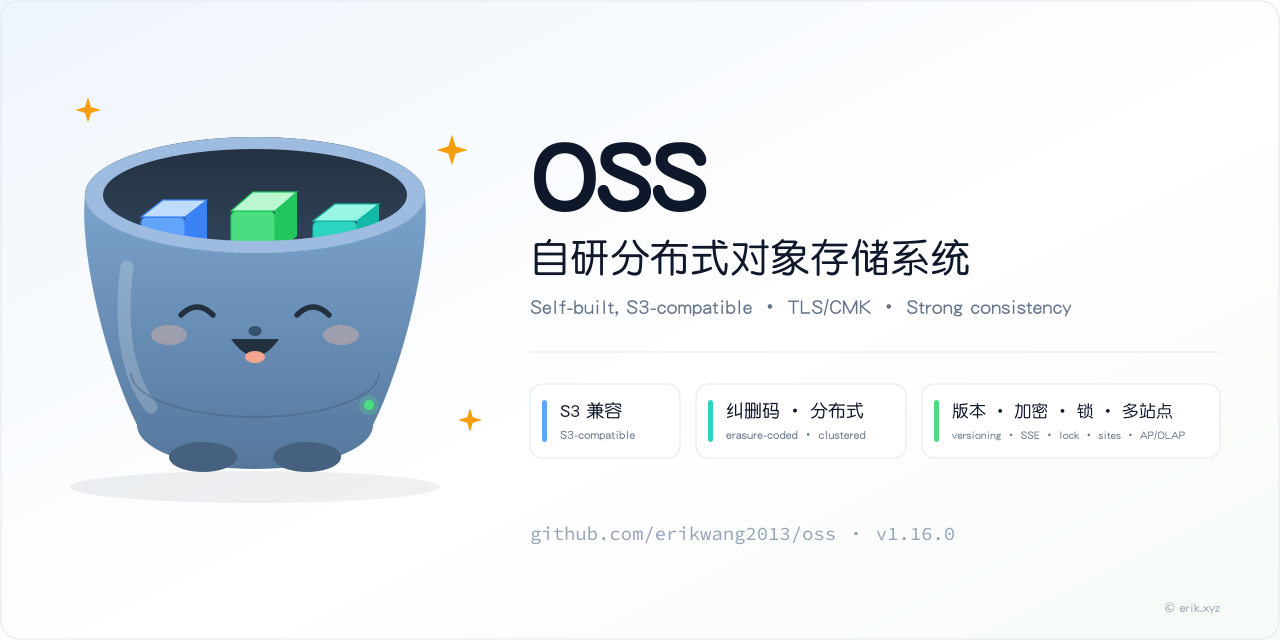
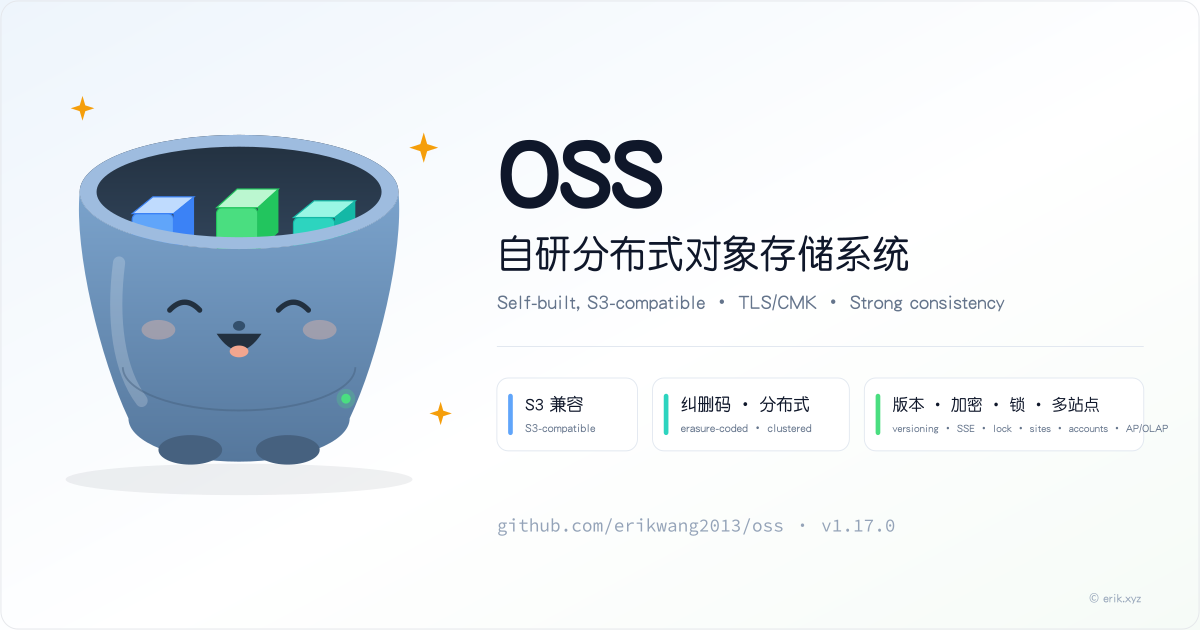
release: v1.17.0 文档、图片、站点与版本号

diff --git a/site/index.html b/site/index.html
@@ -36,7 +36,7 @@
         "alternateName": "oss",
         "applicationCategory": "DeveloperApplication",
         "operatingSystem": "Linux, macOS, Docker",
-        "softwareVersion": "1.16.0",
+        "softwareVersion": "1.17.0",
         "license": "https://www.apache.org/licenses/LICENSE-2.0",
         "codeRepository": "https://github.com/erikwang2013/oss",
         "downloadUrl": "https://github.com/erikwang2013/oss/releases",
@@ -90,7 +90,7 @@
         <a href="usage.html">使用</a>
         <a href="api.html">API 文档</a>
         <a href="https://github.com/erikwang2013/oss" target="_blank" rel="noopener">GitHub</a>
-        <a href="https://github.com/erikwang2013/oss/releases" target="_blank" rel="noopener">下载 v1.16.0</a>
+        <a href="https://github.com/erikwang2013/oss/releases" target="_blank" rel="noopener">下载 v1.17.0</a>
       </nav>
     </header>
     <div id="top-sentinel" aria-hidden="true"></div>
@@ -130,7 +130,7 @@
           <div><strong>5 个 crate</strong><span>oss-server · xl-s3 · xl-store · xl-client · xl-proto</span></div>
           <div><strong>EC 8+4</strong><span>多盘分片、quorum 写与读时修复</span></div>
           <div><strong>3 voters</strong><span>A/B 数据站点 + C control witness</span></div>
-          <div><strong>backlog 第二轮</strong><span>2026-10-24 · v1.16.0 已发布</span></div>
+          <div><strong>架构切片</strong><span>2026-10-24 · v1.17.0 已发布</span></div>
         </div>
       </div>
 
@@ -140,7 +140,7 @@
             <h2>项目介绍</h2>
             <p class="intro-lede">吞吞（oss）是一块自己养大的对象存储：Rust 2024 编写，S3 兼容，从单盘一直长到跨站点强一致。</p>
             <p>它不是只把文件存进去的薄壳，而是把存储内核、纠删码、集群 mesh、多站点复制、控制面和安全能力放在同一套代码里。你可以只跑一个进程做本地备份，也可以配置 3 个 voter 和 witness，让控制面在站点故障时继续工作。</p>
-            <p>项目从单盘切片开始，依次完成可用性、分布式、运维与 IAM、安全、数据流、多站点、控制面，走到 sync 桶与 Raft 强一致。2026-10-23 的能力边界清零补齐了 S3 协议细节、全链路 TLS、控制面作业/清单/分层/访问点与滚动升级；2026-10-24 的 v1.15.0 完成 AP/账户、TLS/CMK、tier 流式与多站点复制等硬化收口，v1.16.0 又补上 WebIdentity、MPU 跨节点、OSSCTL2、Batch 抢占与 M8 leader 门控等 backlog。每个阶段都有可运行的 e2e、验收记录和对应文档。</p>
+            <p>项目从单盘切片开始，依次完成可用性、分布式、运维与 IAM、安全、数据流、多站点、控制面，走到 sync 桶与 Raft 强一致。2026-10-23 的能力边界清零补齐了 S3 协议细节、全链路 TLS、控制面作业/清单/分层/访问点与滚动升级；2026-10-24 的 v1.15.0 完成 AP/账户、TLS/CMK、tier 流式与多站点复制等硬化收口，v1.16.0 又补上 WebIdentity、MPU 跨节点、OSSCTL2、Batch 抢占与 M8 leader 门控等 backlog，v1.17.0 继续推进账户 MVP、DP-0 数据面握手、M7 对账与 M8 运行态 fencing。每个阶段都有可运行的 e2e、验收记录和对应文档。</p>
             <p>它适合想理解对象存储内部实现的人，也适合需要一套可自托管、可审计、能继续改的 S3 兼容服务的团队。代码是开放的，边界也写清楚了：能做什么，不能做什么，都在 README 和版本日志里。</p>
           </div>
           <aside class="project-facts" data-reveal aria-label="项目档案">
@@ -152,8 +152,8 @@
               <div><dt>对外协议</dt><dd>S3 compatible</dd></div>
               <div><dt>实现语言</dt><dd>Rust 2024</dd></div>
               <div><dt>许可证</dt><dd>Apache-2.0</dd></div>
-              <div><dt>当前版本</dt><dd>v1.16.0（最新发布）</dd></div>
-              <div><dt>最新发布</dt><dd>backlog 第二轮（2026-10-24）</dd></div>
+              <div><dt>当前版本</dt><dd>v1.17.0（最新发布）</dd></div>
+              <div><dt>最新发布</dt><dd>架构切片（2026-10-24）</dd></div>
               <div><dt>部署形态</dt><dd>单盘 / 多盘 EC / 多站点 / 3-voter Raft · 全链路 TLS</dd></div>
               <div><dt>源码</dt><dd><a href="https://github.com/erikwang2013/oss" target="_blank" rel="noopener">github.com/erikwang2013/oss</a></dd></div>
             </dl>
@@ -217,7 +217,7 @@ aws s3 cp ./backup.tar s3://backup/</code></pre>
             </article>
             <article class="bento-card span-8" data-reveal>
               <h3>v1.16 backlog 第二轮</h3>
-              <p>2026-10-24 完成并随 v1.16.0 发布：STS WebIdentity、Select BZIP2、CMK 删除/rewrap、MPU 跨节点路由、OSSCTL2 快照、M6 token 远端、TLS mesh/Kafka 热加载、Batch 抢占/跨账户清单、M8 leader 门控与 tier 清扫/预留。</p>
+              <p>2026-10-24 完成并随 v1.17.0 发布：多租户账户 MVP、AP 跨账户/SourceVpce、DP-0 数据面版本握手、M7 未映射 REPLICA 对账、M8 运行态 fencing、CMK 离线运维、WebIdentity 加固、tier 分块哈希/直读与 Batch 运行态修复。</p>
               <div class="chip-row"><span>WebIdentity</span><span>BZIP2</span><span>MPU</span><span>OSSCTL2</span><span>Batch</span></div>
             </article>
             <article class="bento-card tint span-4" data-reveal>
@@ -401,6 +401,11 @@ aws --endpoint-url http://127.0.0.1:9000 s3 rm s3://backup/data.tar</code></pre>
           <div class="release-list">
             <article class="release-row" data-reveal>
               <time datetime="2026-10-24">2026-10-24</time>
+              <div><strong>v1.17.0</strong><p>架构切片：账户 MVP、AP 跨账户、DP-0 数据面握手、M7 对账、M8 运行态 fencing、CMK 运维与 WebIdentity 加固。</p></div>
+              <a href="changelog.html#v1-17-0">查看</a>
+            </article>
+            <article class="release-row" data-reveal>
+              <time datetime="2026-10-24">2026-10-24</time>
               <div><strong>v1.16.0</strong><p>backlog 第二轮：WebIdentity、BZIP2、CMK 删除/rewrap、MPU 跨节点、OSSCTL2、Batch 抢占/跨账户、M8 leader 门控。</p></div>
               <a href="changelog.html#v1-16-0">查看</a>
             </article>
@@ -463,12 +468,12 @@ aws --endpoint-url http://127.0.0.1:9000 s3 rm s3://backup/data.tar</code></pre>
         <div class="wrap">
           <div class="download-band" data-reveal>
             <div>
-              <h2>下载 v1.16.0</h2>
+              <h2>下载 v1.17.0</h2>
               <p>Release 提供源码归档。当前没有预编译二进制，推荐用 Docker Compose 或按安装文档从源码构建。</p>
             </div>
             <div class="download-actions">
-              <a class="btn btn-primary btn-lg" href="https://github.com/erikwang2013/oss/releases/tag/v1.16.0" target="_blank" rel="noopener">打开 Release</a>
-              <a class="btn btn-ghost btn-lg" href="https://github.com/erikwang2013/oss/archive/refs/tags/v1.16.0.tar.gz" target="_blank" rel="noopener">源码包</a>
+              <a class="btn btn-primary btn-lg" href="https://github.com/erikwang2013/oss/releases/tag/v1.17.0" target="_blank" rel="noopener">打开 Release</a>
+              <a class="btn btn-ghost btn-lg" href="https://github.com/erikwang2013/oss/archive/refs/tags/v1.17.0.tar.gz" target="_blank" rel="noopener">源码包</a>
               <a class="btn btn-ghost btn-lg" href="install.html">安装文档</a>
             </div>
           </div>
@@ -510,7 +515,7 @@ aws --endpoint-url http://127.0.0.1:9000 s3 rm s3://backup/data.tar</code></pre>
         <div class="footer-brand">
           <img src="assets/img/pet/smile.svg" data-static="assets/img/pet/static/smile.png" width="360" height="400" alt="" decoding="async">
           <p>吞吞（oss）：Rust 编写的 S3 兼容分布式对象存储。把对象吞进桶里，也把一致性守住。</p>
-          <p class="footer-meta">Apache-2.0 · Rust 2024 · v1.16.0</p>
+          <p class="footer-meta">Apache-2.0 · Rust 2024 · v1.17.0</p>
         </div>
         <div class="footer-links">
           <h2>文档</h2>

diff --git a/site/changelog.html b/site/changelog.html
@@ -9,7 +9,7 @@
     <meta property="og:locale" content="zh_CN">
     <meta name="color-scheme" content="light dark">
     <title>版本日志 | oss（吞吞）</title>
-    <meta name="description" content="oss（吞吞）版本日志：从 v1.0.0 到 v1.16.0，包含各阶段的功能迭代、修复与验收记录。">
+    <meta name="description" content="oss（吞吞）版本日志：从 v1.0.0 到 v1.17.0，包含各阶段的功能迭代、修复与验收记录。">
     <meta name="keywords" content="oss 版本日志,吞吞 release,S3 对象存储更新,Rust 对象存储,TLS,滚动升级">
     <link rel="canonical" href="https://oss.erik.xyz/changelog.html">
     <link rel="icon" href="assets/img/favicon.svg" type="image/svg+xml">
@@ -18,12 +18,12 @@
     <meta property="og:type" content="article">
     <meta property="og:site_name" content="oss（吞吞）">
     <meta property="og:title" content="版本日志 | oss（吞吞）">
-    <meta property="og:description" content="从单盘到 3-voter 强一致，再到 backlog 第二轮；oss 的完整版本历史与 v1.16.0 变更。">
+    <meta property="og:description" content="从单盘到 3-voter 强一致，再到 v1.17.0 架构切片；oss 的完整版本历史与最新变更。">
     <meta property="og:url" content="https://oss.erik.xyz/changelog.html">
     <meta property="og:image" content="https://oss.erik.xyz/assets/img/social-preview.png">
     <meta name="twitter:card" content="summary_large_image">
     <meta name="twitter:title" content="版本日志 | oss（吞吞）">
-    <meta name="twitter:description" content="从单盘到 3-voter 强一致，再到 v1.16.0 backlog 第二轮；oss 的完整版本历史。">
+    <meta name="twitter:description" content="从单盘到 3-voter 强一致，再到 v1.17.0 架构切片；oss 的完整版本历史。">
     <meta name="twitter:image" content="https://oss.erik.xyz/assets/img/social-preview.png">
     <link rel="stylesheet" href="assets/css/site.css">
     <noscript><style>[data-reveal]{opacity:1;transform:none}</style></noscript>
@@ -62,7 +62,7 @@
         <a href="usage.html">使用</a>
         <a href="api.html">API 文档</a>
         <a href="https://github.com/erikwang2013/oss" target="_blank" rel="noopener">GitHub</a>
-        <a href="https://github.com/erikwang2013/oss/releases" target="_blank" rel="noopener">下载 v1.16.0</a>
+        <a href="https://github.com/erikwang2013/oss/releases" target="_blank" rel="noopener">下载 v1.17.0</a>
       </nav>
     </header>
     <div id="top-sentinel" aria-hidden="true"></div>
@@ -71,12 +71,13 @@
       <div class="doc-hero">
         <div class="wrap">
           <h1>版本日志</h1>
-          <p>从 v1.0.0 的单盘内核，到 v1.16.0 的 backlog 第二轮。每个已发布版本都有对应的 tag 与 GitHub Release。</p>
+          <p>从 v1.0.0 的单盘内核，到 v1.17.0 的架构切片。每个已发布版本都有对应的 tag 与 GitHub Release。</p>
         </div>
       </div>
 
       <div class="wrap doc-layout">
         <aside class="doc-nav" aria-label="版本导航">
+          <a href="#v1-17-0">v1.17.0</a>
           <a href="#v1-16-0">v1.16.0</a>
           <a href="#v1-15-0">v1.15.0</a>
           <a href="#v1-14-0">v1.14.0</a>
@@ -92,9 +93,23 @@
         </aside>
 
         <article class="prose">
-          <p>当前最新发布：<strong>v1.16.0</strong>（2026-10-24）。</p>
+          <p>当前最新发布：<strong>v1.17.0</strong>（2026-10-24）。</p>
 
           <div class="changelog-list">
+            <details class="changelog-entry" id="v1-17-0" open>
+              <summary><strong>v1.17.0</strong><time datetime="2026-10-24">2026-10-24</time><span>架构切片</span></summary>
+              <div class="entry-body">
+                <ul>
+                  <li><strong>账户 / 身份</strong>：多租户账户 MVP（accounts/account_members、状态与桶数配额、派生 ARN 回填、停用账户全链 fail-closed；账户写不参与 Raft）；AP 跨账户账户根 principal 与 <code>aws:SourceVpce</code> 来源证明；WebIdentity JWKS 热加载、<code>email_verified</code> 与按 IP 限流。</li>
+                  <li><strong>数据面 / 控制面</strong>：DP-0 数据面 wire 版本握手（混版 503 <code>peer_incompatible</code>，探测预算 100ms）；M8 运行态 fencing epoch；M7 未映射 REPLICA 对账（管理员列出/点名删除，默认 dry-run）；OSSCTL2 导出记录 <code>activation_level</code>。</li>
+                  <li><strong>存储 / 运维</strong>：tier 分块哈希元数据与归档 Range 直读（默认关闭，分块 SHA-256、漂移 fail-closed）；CMK 离线 <code>scan/rewrap/delete/trash</code>；Batch <code>preempted</code> 运行态展示与跨账户通知边界。</li>
+                  <li><strong>安全</strong>：SSE-C MPU 跨节点强制 mesh TLS；<code>x-amz-replication-status: REPLICA</code> 仅在 site token 认证时生效；AP SourceVpce 需显式证明，非 PrivateLink 身份。</li>
+                  <li><strong>验证</strong>：S3 全量 e2e 38 节 RC=0（含 Kafka 三阶段、双实例复制与 §20 标签）；M9 78/59/133/65（rolling 首跑 64/1/4 为高负载轮询超时，重跑 65/0/4）；M8 e2e PASS 4633s（Tier=ran + M6/M7 smoke）；E2E_LONG 100×100MB 通过（含中断重试）；库测试 xl-store 300（1 ignored）/ xl-s3 176 / oss-server 179。</li>
+                </ul>
+                <p><a href="https://github.com/erikwang2013/oss/releases/tag/v1.17.0" target="_blank" rel="noopener">GitHub Release</a> · 验收记录：<code>docs/superpowers/specs/2026-10-23-capability-gaps-acceptance.md</code> §13；架构 backlog：<code>docs/superpowers/specs/2026-10-24-architecture-backlog.md</code>。</p>
+              </div>
+            </details>
+
             <details class="changelog-entry" id="v1-16-0" open>
               <summary><strong>v1.16.0</strong><time datetime="2026-10-24">2026-10-24</time><span>backlog 第二轮</span></summary>
               <div class="entry-body">
@@ -258,7 +273,7 @@
         <div class="footer-brand">
           <img src="assets/img/pet/smile.svg" data-static="assets/img/pet/static/smile.png" width="360" height="400" alt="" decoding="async">
           <p>吞吞（oss）：Rust 编写的 S3 兼容分布式对象存储。把对象吞进桶里，也把一致性守住。</p>
-          <p class="footer-meta">Apache-2.0 · Rust 2024 · v1.16.0</p>
+          <p class="footer-meta">Apache-2.0 · Rust 2024 · v1.17.0</p>
         </div>
         <div class="footer-links">
           <h2>文档</h2>

diff --git a/site/usage.html b/site/usage.html
@@ -62,7 +62,7 @@
         <a href="usage.html" aria-current="page">使用</a>
         <a href="api.html">API 文档</a>
         <a href="https://github.com/erikwang2013/oss" target="_blank" rel="noopener">GitHub</a>
-        <a href="https://github.com/erikwang2013/oss/releases" target="_blank" rel="noopener">下载 v1.16.0</a>
+        <a href="https://github.com/erikwang2013/oss/releases" target="_blank" rel="noopener">下载 v1.17.0</a>
       </nav>
     </header>
     <div id="top-sentinel" aria-hidden="true"></div>
@@ -268,11 +268,14 @@ oss-server rebalance --apply</code></pre>
               <thead><tr><th>边界</th><th>现状</th></tr></thead>
               <tbody>
                 <tr><td>AP 匿名 / SourceVpc</td><td>已支持（策略 <code>Principal:"*"</code> ∩ 桶策略；SourceVpc 为来源证明）</td></tr>
-                <tr><td>AP 跨账号 / VPC 端点</td><td>不做；AP 桶级 Create/Delete/ListBuckets 走控制面 API</td></tr>
+                <tr><td>AP 跨账户 / SourceVpce</td><td>已支持账户根 principal 与 <code>aws:SourceVpce</code> 来源证明；VPC 端点真实 PrivateLink 身份仍不做</td></tr>
+                <tr><td>多租户账户 MVP</td><td>已支持（账户/成员/状态/桶数配额；账户写不参与 Raft；完整租户隔离与管理员 UI 仍不做）</td></tr>
+                <tr><td>M7 未映射 REPLICA 对账</td><td>已支持（管理员列出/点名删除；默认 dry-run，绝不按内容匹配）</td></tr>
+                <tr><td>DP-0 数据面握手</td><td>已支持（wire 版本严格相等；混版 503 <code>peer_incompatible</code>；数据面仍非滚动）</td></tr>
                 <tr><td>Inventory 增量 / 跨账户目标</td><td>已支持（增量水位为节点本地；跨账户目标仅管理员可配置）</td></tr>
                 <tr><td>AbortIncompleteMultipartUpload</td><td>已支持（生命周期规则）</td></tr>
                 <tr><td>Batch 抢占 / 跨账户清单</td><td>已支持（同提交者协作抢占；跨账户清单仅管理员；跨账户通知仍不做）</td></tr>
-                <tr><td>tier 直读（含 Range）</td><td>不做；归档对象须先 Restore；Transition/Restore 已流式搬运</td></tr>
+                <tr><td>tier 直读（含 Range）</td><td>已支持（<code>OSS_TIER_DIRECT_READ=1</code> 默认关；分块 SHA-256 校验，无表/漂移 fail-closed；非 Range 仍先 Restore）</td></tr>
                 <tr><td>Select BZIP2</td><td>已支持（CSV/JSON 输入；Parquet 仍要求 CompressionType=NONE）</td></tr>
                 <tr><td>MPU 跨节点</td><td>已支持（新 upload_id 属主路由/流式转发；存量裸 UUID 仍粘原节点）</td></tr>
                 <tr><td>CMK 删除 / rewrap</td><td>已支持（删除有引用即 409；rewrap 默认 dry-run，本地节点口径）</td></tr>
@@ -281,7 +284,7 @@ oss-server rebalance --apply</code></pre>
               </tbody>
             </table>
           </div>
-          <p>已知限制：复制/tier 摄入已透传 <code>part_sizes</code>；签名内的多区间 Range 返回确定性 400 <code>InvalidArgument</code>；MPU 存量裸 UUID 仍粘原节点；直接读 tier 须先 Restore；未映射 legacy 副本需人工对账；AP 转发头只在 TLS 监听器 + 可信对端 CIDRS 下采信。完整清单见仓库验收记录。</p>
+          <p>已知限制：复制/tier 摄入已透传 <code>part_sizes</code>；签名内的多区间 Range 返回确定性 400 <code>InvalidArgument</code>；MPU 存量裸 UUID 仍粘原节点；tier 直读默认关闭且仅支持 Range；未映射 legacy 副本需管理员对账；AP 转发头只在 TLS 监听器 + 可信对端 CIDRS 下采信；DP-0 混版数据面返回 503。完整清单见仓库验收记录。</p>
 
           <h2 id="more">继续阅读</h2>
           <ul>
@@ -299,7 +302,7 @@ oss-server rebalance --apply</code></pre>
         <div class="footer-brand">
           <img src="assets/img/pet/smile.svg" data-static="assets/img/pet/static/smile.png" width="360" height="400" alt="" decoding="async">
           <p>吞吞（oss）：Rust 编写的 S3 兼容分布式对象存储。把对象吞进桶里，也把一致性守住。</p>
-          <p class="footer-meta">Apache-2.0 · Rust 2024 · v1.16.0</p>
+          <p class="footer-meta">Apache-2.0 · Rust 2024 · v1.17.0</p>
         </div>
         <div class="footer-links">
           <h2>文档</h2>

diff --git a/site/api.html b/site/api.html
@@ -61,7 +61,7 @@
         <a href="usage.html">使用</a>
         <a href="api.html" aria-current="page">API 文档</a>
         <a href="https://github.com/erikwang2013/oss" target="_blank" rel="noopener">GitHub</a>
-        <a href="https://github.com/erikwang2013/oss/releases" target="_blank" rel="noopener">下载 v1.16.0</a>
+        <a href="https://github.com/erikwang2013/oss/releases" target="_blank" rel="noopener">下载 v1.17.0</a>
       </nav>
     </header>
     <div id="top-sentinel" aria-hidden="true"></div>
@@ -148,16 +148,19 @@ aws --endpoint-url http://127.0.0.1:9000 s3api head-object \
             <li><code>partNumber</code> 与 <code>Range</code> 同时出现 → 400 <code>InvalidRequest</code>；v1.15 起复制与 tier 摄入透传 <code>part_sizes</code>，MPU 分段边界保持可读。</li>
             <li>GET 多区间 <code>bytes=0-9,20-29</code> 不返回 <code>multipart/byteranges</code>：未签入 Range 时剥离并返回 200 整对象；Range 计入 SigV4 SignedHeaders 时返回确定性 400 <code>InvalidArgument</code>。</li>
             <li>匿名 AP 策略 <code>Principal:"*"</code> 与桶策略匿名基线取交集，仅放行数据面对象操作；控制面与对象锁/保留期头一律 403。</li>
-            <li>生命周期支持 <code>AbortIncompleteMultipartUpload</code>；STS 支持 <code>AssumeRoleWithWebIdentity</code>（默认关闭，需 OIDC 配置）；AP 跨账号/VPC 端点仍为非目标。</li>
+            <li>生命周期支持 <code>AbortIncompleteMultipartUpload</code>；STS 支持 <code>AssumeRoleWithWebIdentity</code>（默认关闭，需 OIDC 配置）；AP 跨账户已支持账户根 principal，VPC 端点真实 PrivateLink 身份仍为非目标。</li>
             <li>Select 支持 CSV/JSON/Parquet 输入与 BZIP2/GZIP（BZIP2 仅 CSV/JSON；ScanRange 与压缩流互斥）。MPU 新 upload_id 可跨节点路由；存量裸 UUID 仍粘原节点。</li>
             <li>Batch 支持同提交者协作抢占与跨账户清单（管理员）；OSSCTL2 快照携带 level-2 生命周期数据，旧读者明确拒绝。</li>
+            <li>v1.17：多租户账户 MVP（账户/成员/状态/桶数配额；账户写不参与 Raft）；AP 跨账户账户根 principal 与 <code>aws:SourceVpce</code> 来源证明。</li>
+            <li>v1.17：DP-0 数据面 wire 版本握手（混版 503 <code>peer_incompatible</code>）；M8 运行态 fencing；M7 未映射 REPLICA 对账（管理员 CLI/控制台，默认 dry-run）。</li>
+            <li>v1.17：tier 分块哈希与归档 Range 直读（默认关闭）；CMK 离线 scan/rewrap/delete/trash；REPLICA 头需 site token 认证。</li>
           </ul>
 
           <h2 id="more">继续阅读</h2>
           <ul>
             <li><a href="install.html">安装文档</a>：Docker、源码构建与首次启动。</li>
             <li><a href="usage.html">使用说明</a>：S3 操作、控制台、版本、加密与强一致。</li>
-            <li><a href="changelog.html">版本日志</a>：从 v1.0.0 到 v1.16.0。</li>
+            <li><a href="changelog.html">版本日志</a>：从 v1.0.0 到 v1.17.0。</li>
             <li><a href="https://github.com/erikwang2013/oss#readme" target="_blank" rel="noopener">oss README</a>：完整协议与运维细节（随发布同步）。</li>
           </ul>
         </article>
@@ -169,7 +172,7 @@ aws --endpoint-url http://127.0.0.1:9000 s3api head-object \
         <div class="footer-brand">
           <img src="assets/img/pet/smile.svg" data-static="assets/img/pet/static/smile.png" width="360" height="400" alt="" decoding="async">
           <p>吞吞（oss）：Rust 编写的 S3 兼容分布式对象存储。把对象吞进桶里，也把一致性守住。</p>
-          <p class="footer-meta">Apache-2.0 · Rust 2024 · v1.16.0</p>
+          <p class="footer-meta">Apache-2.0 · Rust 2024 · v1.17.0</p>
         </div>
         <div class="footer-links">
           <h2>文档</h2>

diff --git a/site/install.html b/site/install.html
@@ -62,7 +62,7 @@
         <a href="usage.html">使用</a>
         <a href="api.html">API 文档</a>
         <a href="https://github.com/erikwang2013/oss" target="_blank" rel="noopener">GitHub</a>
-        <a href="https://github.com/erikwang2013/oss/releases" target="_blank" rel="noopener">下载 v1.16.0</a>
+        <a href="https://github.com/erikwang2013/oss/releases" target="_blank" rel="noopener">下载 v1.17.0</a>
       </nav>
     </header>
     <div id="top-sentinel" aria-hidden="true"></div>
@@ -206,13 +206,13 @@ ca_cert = "/etc/oss/ca.crt"</code></pre>
             </table>
           </div>
           <p>完整的节点拓扑、witness、sync 写语义、cutover 与 force recovery 步骤在 <a href="https://github.com/erikwang2013/oss#readme" target="_blank" rel="noopener">README</a> 的强一致章节（随发布同步）。</p>
-          <p>控制面支持滚动升级窗口：先保持 <code>[raft].feature_level = 1</code>（默认），逐个替换节点；全部 voter/learner 都升级后再改为 <code>2</code> 并重启。激活后不可回滚到旧版，数据面（分片、EC、放置）仍非滚动。升级步骤与自动拒绝条件见 README 的「升级顺序」（随发布同步）。</p>
+          <p>控制面支持滚动升级窗口：先保持 <code>[raft].feature_level = 1</code>（默认），逐个替换节点；全部 voter/learner 都升级后再改为 <code>2</code> 并重启。激活后不可回滚到旧版，数据面（分片、EC、放置）仍非滚动；v1.17 起数据面新增 wire 版本握手（混版节点返回 503 <code>peer_incompatible</code>），但仍不支持数据面滚动。升级步骤与自动拒绝条件见 README 的「升级顺序」（随发布同步）。</p>
 
           <h2 id="download">下载与版本</h2>
-          <p>当前 Release 提供源码归档，没有预编译二进制。推荐 Docker Compose 或按本文源码构建。当前最新发布 v1.16.0；可直接下载源码包或按本文构建。</p>
+          <p>当前 Release 提供源码归档，没有预编译二进制。推荐 Docker Compose 或按本文源码构建。当前最新发布 v1.17.0；可直接下载源码包或按本文构建。</p>
           <p>
-            <a class="btn btn-primary" href="https://github.com/erikwang2013/oss/releases/tag/v1.16.0" target="_blank" rel="noopener">打开 v1.16.0 Release</a>
-            <a class="btn btn-ghost" href="https://github.com/erikwang2013/oss/archive/refs/tags/v1.16.0.tar.gz" target="_blank" rel="noopener">下载源码包</a>
+            <a class="btn btn-primary" href="https://github.com/erikwang2013/oss/releases/tag/v1.17.0" target="_blank" rel="noopener">打开 v1.17.0 Release</a>
+            <a class="btn btn-ghost" href="https://github.com/erikwang2013/oss/archive/refs/tags/v1.17.0.tar.gz" target="_blank" rel="noopener">下载源码包</a>
             <a class="btn btn-ghost" href="changelog.html">版本日志</a>
           </p>
         </article>
@@ -224,7 +224,7 @@ ca_cert = "/etc/oss/ca.crt"</code></pre>
         <div class="footer-brand">
           <img src="assets/img/pet/smile.svg" data-static="assets/img/pet/static/smile.png" width="360" height="400" alt="" decoding="async">
           <p>吞吞（oss）：Rust 编写的 S3 兼容分布式对象存储。把对象吞进桶里，也把一致性守住。</p>
-          <p class="footer-meta">Apache-2.0 · Rust 2024 · v1.16.0</p>
+          <p class="footer-meta">Apache-2.0 · Rust 2024 · v1.17.0</p>
         </div>
         <div class="footer-links">
           <h2>文档</h2>

diff --git a/README.en.md b/README.en.md
@@ -16,7 +16,7 @@ An S3-compatible, self-built object storage system (an equivalent implementation
 
 **v1.16.0 (2026-10-24) — backlog round 2**: Select BZIP2; STS `AssumeRoleWithWebIdentity`; safe CMK delete and per-version rewrap; M3 MPU cross-node owner routing/streaming forward; OSSCTL2 snapshots plus LC-0 export/cutover/force-recover provenance guards; M6 `site_token` remotes with same-origin ids/version deletes/metadata and M7 same-origin version deletion; TLS mesh gRPC client and Kafka client hot reload; Batch cooperative preemption and cross-account manifests; M8 singleton leader gating; tier stale-stage sweep/disk reservation/0600; AP trusted-peer CIDRs (plain-HTTP proxies need the TLS listener). Evidence and remaining architecture blockers: acceptance §12 and `docs/superpowers/specs/2026-10-24-architecture-backlog.md`.
 
-**v1.17.0 candidate (unreleased)**: multi-tenant account MVP (accounts/members/status/bucket quota) with AP cross-account account-root authorization and `aws:SourceVpce` proof; tier chunk hashes and default-off archived Range reads with cross-process disk reservation; M7 unmapped-replica reconciliation and OSSCTL2 activation-level export; WebIdentity JWKS hot reload / `email_verified` / per-IP limiting; CMK offline CLI, bucket-default references and `.cmk-trash`; mesh SSE-C TLS enforcement and authenticated REPLICA headers; Batch `preempted` UI; DP-0 data-plane wire handshake and mixed-version fail-closed; M8 runtime fencing epoch. See acceptance §13 for evidence and remaining blockers.
+**v1.17.0 (2026-10-24) — architecture slice**: multi-tenant account MVP (accounts/members/status/bucket quota) with AP cross-account account-root authorization and `aws:SourceVpce` proof; tier chunk hashes and default-off archived Range reads with cross-process disk reservation; M7 unmapped-replica reconciliation and OSSCTL2 activation-level export; WebIdentity JWKS hot reload / `email_verified` / per-IP limiting; CMK offline CLI, bucket-default references and `.cmk-trash`; mesh SSE-C TLS enforcement and authenticated REPLICA headers; Batch `preempted` UI; DP-0 data-plane wire handshake and mixed-version fail-closed; M8 runtime fencing epoch. See acceptance §13 for evidence and remaining blockers.
 
 - **Five crates with one-way dependencies `oss-server → xl-s3 / xl-client → xl-store` (`xl-client → xl-proto`)**: `xl-store` is the storage kernel with no framework dependencies (the commit protocol and `xl.meta` format are persisted per the final design); `xl-s3` implements s3s's S3 trait on top of the kernel; `xl-proto` holds inter-node gRPC protocol messages and services (generated by prost + tonic-build); `xl-client` is the tonic implementation of the mesh (`TonicMesh` client + server-side handler); `oss-server` assembles an axum Router with e-cat, serving the console API, aetherupload chunked uploads, and the S3 service at the same time.
 - **Two client entry points**: `aws-cli` / `rclone` go through the S3 surface (SigV4 authentication); the browser console (React 19 + antd, M1b) goes through `/api/v1` and aetherupload's bundled scripts (chunking / resume after disconnect / instant upload).
@@ -64,8 +64,8 @@ M8 control plane (access points and OLAP / jobs and Batch / Inventory / tiering 
 | `tests/e2e_m8.sh` | M8 control-plane acceptance (AP CRUD, Batch 1000+1, Inventory force-run, Transition/Restore optional sections, S3/STS/M4 regression) |
 | `tests/e2e_replication.sh` | Bucket replication two-instance acceptance (source/target real processes: same ETag, PENDING→COMPLETED, downtime backlog → catch-up, marker) |
 | `tests/e2e_sites.sh` | Multi-site replication two-instance acceptance (bidirectional pairing/snapshot, write immediately after bucket creation, disconnect backlog, marker, concurrent same key, no rollback on restart) |
-| `tests/e2e_m9.sh` | M9 strong-consistency acceptance (A/B data sites + witness C three processes: pairing/3-voter, field-level consistency of the **11 replication tables** across all three ends after concurrent control-plane writes, sync remote-first + disconnect 503, MPU/Copy/version delete, kill/restart catch-up); v1.16.0 integrated tree: sync 78/0/1, stretch 59/0/1, recovery 133/0/1 |
-| `tests/e2e_m9_rolling.sh` | M9 Level B control-plane rolling-upgrade drill (replace binaries one machine at a time, wire/feature handshake, level 2 gating, rollback; requires `OSS_OLD_BIN`=v1.13.1, SKIP if not provided); v1.16.0 integrated tree: 65/0/4 (the 4 SKIPs are v1.13.1-side D6 gaps) |
+| `tests/e2e_m9.sh` | M9 strong-consistency acceptance (A/B data sites + witness C three processes: pairing/3-voter, field-level consistency of the **11 replication tables** across all three ends after concurrent control-plane writes, sync remote-first + disconnect 503, MPU/Copy/version delete, kill/restart catch-up); v1.16.0 integrated tree: sync 78/0/1, stretch 59/0/1, recovery 133/0/1; v1.17.0 integrated tree re-ran to the same counts |
+| `tests/e2e_m9_rolling.sh` | M9 Level B control-plane rolling-upgrade drill (replace binaries one machine at a time, wire/feature handshake, level 2 gating, rollback; requires `OSS_OLD_BIN`=v1.13.1, SKIP if not provided); v1.16.0 integrated tree: 65/0/4 (the 4 SKIPs are v1.13.1-side D6 gaps); v1.17.0 integrated tree re-ran to 65/0/4 (first attempt 64/1/4 was a 60s poll timeout under heavy load) |
 | `tests/e2e_m9_recovery.sh` | M9 disaster-recovery acceptance (real processes + CLI: M7 export/cutover field-level conflicts and overwrite, `bootstrap=false` restart after force-recover; witness runtime/export/force-recover; B′ replacement + `sync-reconcile --repair` gate) |
 | `tests/e2e_stretch.sh` | M9 S4 stretch 2×6 real-process acceptance (two sites × 6 drives, EC 8+4, single-site failure fail-closed, recovery, config negative cases; does not depend on witness C) |
 
@@ -771,6 +771,7 @@ aws --endpoint-url $E s3api delete-bucket-lifecycle --bucket b
 
 - **Implemented**: S0 mode matrix/config validation/capability switches; S1–S3 sync data plane (unified origin version id, write gate and write intent, MPU/Copy boundaries, remote-first delete, internal token routing, bucket-delete quiesce, delete intent recovery); S4 stretch 2×6 data plane; S5 openraft 0.9.25 SQLite log/state machine/snapshot/HTTP network; S6 control write routing (11 control tables committed via a single `ControlPlane` command, deterministic payload, cache/directory side effects after apply, `/site/changelog` 409, startup mode assertions); S7 3-voter membership changes/leader single-hop forwarding, bilateral pairing and B′ replacement, witness standalone runtime, 11-table logical snapshot/install, M7→Raft `raft-cutover`/`raft-export`/`raft-force-recover`, `sync-reconcile [--repair]`, console Raft cluster card. M7/Local paths remain byte-identical.
 - **Acceptance evidence (v1.13.1 release, code HEAD `ac007e7`, 2026-10-22)**: `M9_STRICT=1 tests/e2e_m9.sh` (sync) 78 PASS / 0 FAIL / 1 expected SKIP; `M9_STRICT=1 M9_STRETCH=1 tests/e2e_m9.sh` (stretch+Raft pairing/witness) 59 PASS / 0 FAIL / 1 expected SKIP; `tests/e2e_m9_recovery.sh` 133 PASS / 0 FAIL / 1 expected SKIP; M7 regression `tests/e2e_sites.sh` PASS. Rust focused tests 164 PASS (lib 112 + raft_access 6 + raft_s71 6 + raft_cutover 4 + sync_gate 36); `cargo fmt --all --check` and `cargo clippy -p oss-server -p xl-s3 --all-targets -- -D warnings` pass. Focused evidence for the 2026-10-23 capability-cleanup merge is in `docs/superpowers/specs/2026-10-23-capability-gaps-acceptance.md` §3: xl-store 259+1 ignored / xl-s3 136 / oss-server 140, S3 e2e 38 sections. **v1.15.0 hardening lane (2026-10-24)**: sync 78/0/1, stretch 59/0/1, recovery 133/0/1, rolling 65/0/4; M8 e2e PASS (4433s, Tier step SKIP by environment); integrated-tree libraries xl-store 268+1 ignored / xl-s3 150 / oss-server 152, S3 full e2e 38 sections RC=0, Web `tsc`/`vite build`/Playwright 9/9. See acceptance record §11. **v1.16.0 integrated tree (2026-10-24)**: libraries xl-store 282+1 ignored / xl-s3 163 / oss-server 168; S3 full e2e 38 sections RC=0; E2E_LONG 100×100MB passed; M8 e2e PASS 4742s (Tier=ran + M6/M7 smoke); M9 sync/stretch/recovery/rolling 78/59/133/65; fmt/clippy 0 warnings. See acceptance §12.
+ **v1.17.0 integrated tree (2026-10-24)**: libraries xl-store 300 (1 ignored) / xl-s3 176 / oss-server 179; S3 full e2e 38 sections RC=0 (Kafka three phases, two-instance replication, §20 tags); M9 sync/stretch/recovery/rolling 78/59/133/65 (rolling first attempt 64/1/4 was a 60s poll timeout under load; rerun passed); M8 e2e PASS 4633s (Tier=ran + M6/M7 smoke); E2E_LONG 100×100MB passed (including interrupted retry); fmt/clippy 0; Web `tsc`/`vite build` passed, Vitest 21/21, oxlint 0.
 
 ### Mode Matrix
 

diff --git a/docs/superpowers/specs/2026-10-24-architecture-backlog.md b/docs/superpowers/specs/2026-10-24-architecture-backlog.md
@@ -1,10 +1,10 @@
 # 架构级非目标 backlog（Level C / 数据面滚动 / 账户 / M8 多节点 / M3 shrink）
 
-> 状态：**设计 backlog，五项完整目标均未实现**。v1.16.0（2026-10-24）已落地 LC-0
-> 来源校验与 M8 单例任务 leader 门控；v1.17.0 候选又落地账户 MVP、M8 运行态 fencing epoch、
-> DP-0 数据面版本握手与 AP 跨账户/SourceVpce 证明（均为部分切片，完整 Level C/数据面滚动/
-> 多租户/M8 多节点/shrink 仍未实现）。证据见验收记录 §12–§13；本文不是发布承诺。
-> 基线：v1.15.0（Rust/前端树 `2bda0bc`，2026-10-24）；非目标原文见
+> 状态：**设计 backlog，五项完整目标均未实现**。v1.17.0（2026-10-24）已发布，落地账户 MVP、
+> M8 运行态 fencing epoch、DP-0 数据面版本握手与 AP 跨账户/SourceVpce 证明；v1.16.0 已落地
+> LC-0 来源校验与 M8 单例任务 leader 门控。以上均为部分切片，完整 Level C / 数据面滚动 /
+> 多租户 / M8 多节点 / M3 shrink 仍未实现。证据见验收记录 §12–§13；本文不是发布承诺。
+> 基线：v1.17.0（2026-10-24）；非目标原文见
 > `docs/superpowers/specs/2026-10-23-capability-gaps-acceptance.md` §11.3。
 > 口径：每项给「现状证据 → 真正阻塞点 → 最小可行切片（MVP）→ 明确非目标 → 接口 →
 > 安全包络 → 测试 → 粗估」。粗估为 1 名熟悉本仓库的资深工程师 + 测试，**±50%**，

diff --git a/docs/superpowers/specs/2026-10-10-feature-spec.md b/docs/superpowers/specs/2026-10-10-feature-spec.md
@@ -7,7 +7,7 @@
   路由、OSSCTL2/LC-0、M6 token 远端、Batch 抢占/跨账户清单、M8 单例任务 leader 门控、tier
   暂存清扫/预留/0600、AP 可信对端 CIDRS。行为与边界以 README 与
   `2026-10-23-capability-gaps-acceptance.md` §12 为准。
-- **v1.17.0 候选补充**：多租户账户 MVP（accounts/account_members/状态/桶配额）、AP 跨账户
+- **v1.17.0（2026-10-24）补充**：多租户账户 MVP（accounts/account_members/状态/桶配额）、AP 跨账户
   账户根授权与 `aws:SourceVpce` 证明、tier 分块哈希与默认关闭的归档 Range 直读、跨进程磁盘
   预留、M7 未映射 REPLICA 对账、OSSCTL2 激活级别导出、WebIdentity JWKS 热加载/
   `email_verified`/按 IP 限速、CMK 离线 CLI/桶默认引用/trash、mesh SSE-C TLS 强制与
